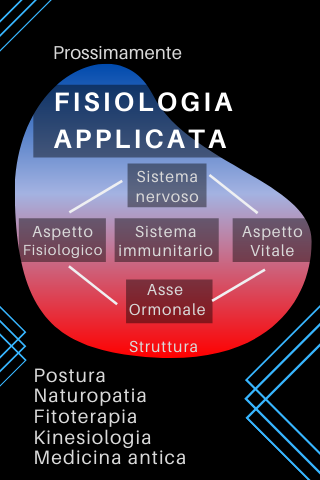
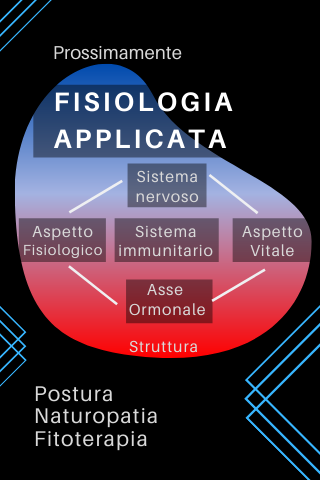
Completato copertine

Changed region(s): [[0.0938, 0.75, 0.5938, 0.9688]]

diff --git a/_docs/11_principi_di_Kinesiologia/Introduzione.md b/_docs/11_principi_di_Kinesiologia/Introduzione.md
@@ -1,0 +1,26 @@
+---
+title: Introduzione
+category: Principi di Kinesiologia
+order: 1
+status: pubblicato
+---
+
+Quando comprendiamo il perchè delle cose lo scopo allora possiamo decidere di prendere delle scelte di dedicare del tempo perchè sappiamo capiamo che è necessario.
+
+Capire come funziona il corpo è fondamentale per questo in questa sezione ci appresteremo a spiagare in modo semplice la biologia la fisiologia.
+
+Questa è una sezione prettamente teorica che puoi saltare se vuoi passare subito al programma vero e proprio.
+
+Come tutta la guida PosturaCorretta questa è una raccolta di informazioni e rielaborazioni che ho appreso da numerose metodiche ho utilizzato e verificato personalmente. 
+
+Nella guida perciò citerò le fonti e le persone che mi hanno presentato questi concetti.
+
+Ti invito a non fidarti ma ad essere anche tu stesso uno sperimentatore, quando conosci cose nuove verifica sempre se fanno al tuo caso e se per te funzionano.
+
+Poche cose sono per tutti. Ognuno ha una sua vita una sua storia una sua esperienza personale.
+
+Un altro motivo importante per cui ho inserito questo capitolo è perchè è fondamentale che professionisti che collaborano per seguire un paziente utilizzino condividano e migliorino le loro conoscenze, che devono essere misurabili, portare a dei risultati, e in altre parole funzionare. 
+
+Non devono essere concetti astratti che restano sui libri ma delle vere e proprie leggi che si possono applicare.
+
+Appunto per questo ho chiamato questa sezione fisiologia applicata.

diff --git a/_docs/12_tecniche_corporee/introduzione.md b/_docs/12_tecniche_corporee/introduzione.md
@@ -1,0 +1,15 @@
+---
+title: Conclusione
+category: Tecniche Corporee 
+order: 1
+status: pubblicato
+---
+
+Qui termina la guida PosturaCorretta e l'aspetto sul benessere e la salute, 
+
+spero con questa guida di averti mostrato come il nostro corpo nasconda aspetti che spesso vengono completamente trascurati.
+
+La postura come avrai notato è influenzata da un infinità di fattori 
+e l'uomo è una realta che può essere paragonata a un giardino di cui tu sei il giardiniere. 
+
+Questo giardino può diventare una selva incolta oppure un opera d'arte, spetta a te averne cura e decidere cosa far crescere.

diff --git a/_docs/15_Importanza_della_filosofia/presentazione.md b/_docs/15_Importanza_della_filosofia/presentazione.md
@@ -1,0 +1,9 @@
+---
+title: Presentazione 
+category: Importanza della Filosofia
+order: 1
+status: pubblicato
+
+---
+
+Nelle guide per patologie specifiche verranno inserite le guide per risolvere un particolare tipo di problema o obiettivo.

diff --git a/_docs/13_tecniche_manuali/introduzione.md b/_docs/13_tecniche_manuali/introduzione.md
@@ -1,6 +1,6 @@
 ---
-title: Conclusione
-category: Chiusura guide generali
+title: Introduzione
+category: Tecniche Manuali
 order: 1
 status: pubblicato
 ---

diff --git a/_docs/08_aspetto_emotivo_e_mentale/introduzione.md b/_docs/08_aspetto_emotivo_e_mentale/introduzione.md
@@ -1,0 +1,8 @@
+---
+title: Ido Portal
+category: Aspetto Emotivo e Mentale
+order: 4
+status: pubblicato
+---
+
+Coming soon
